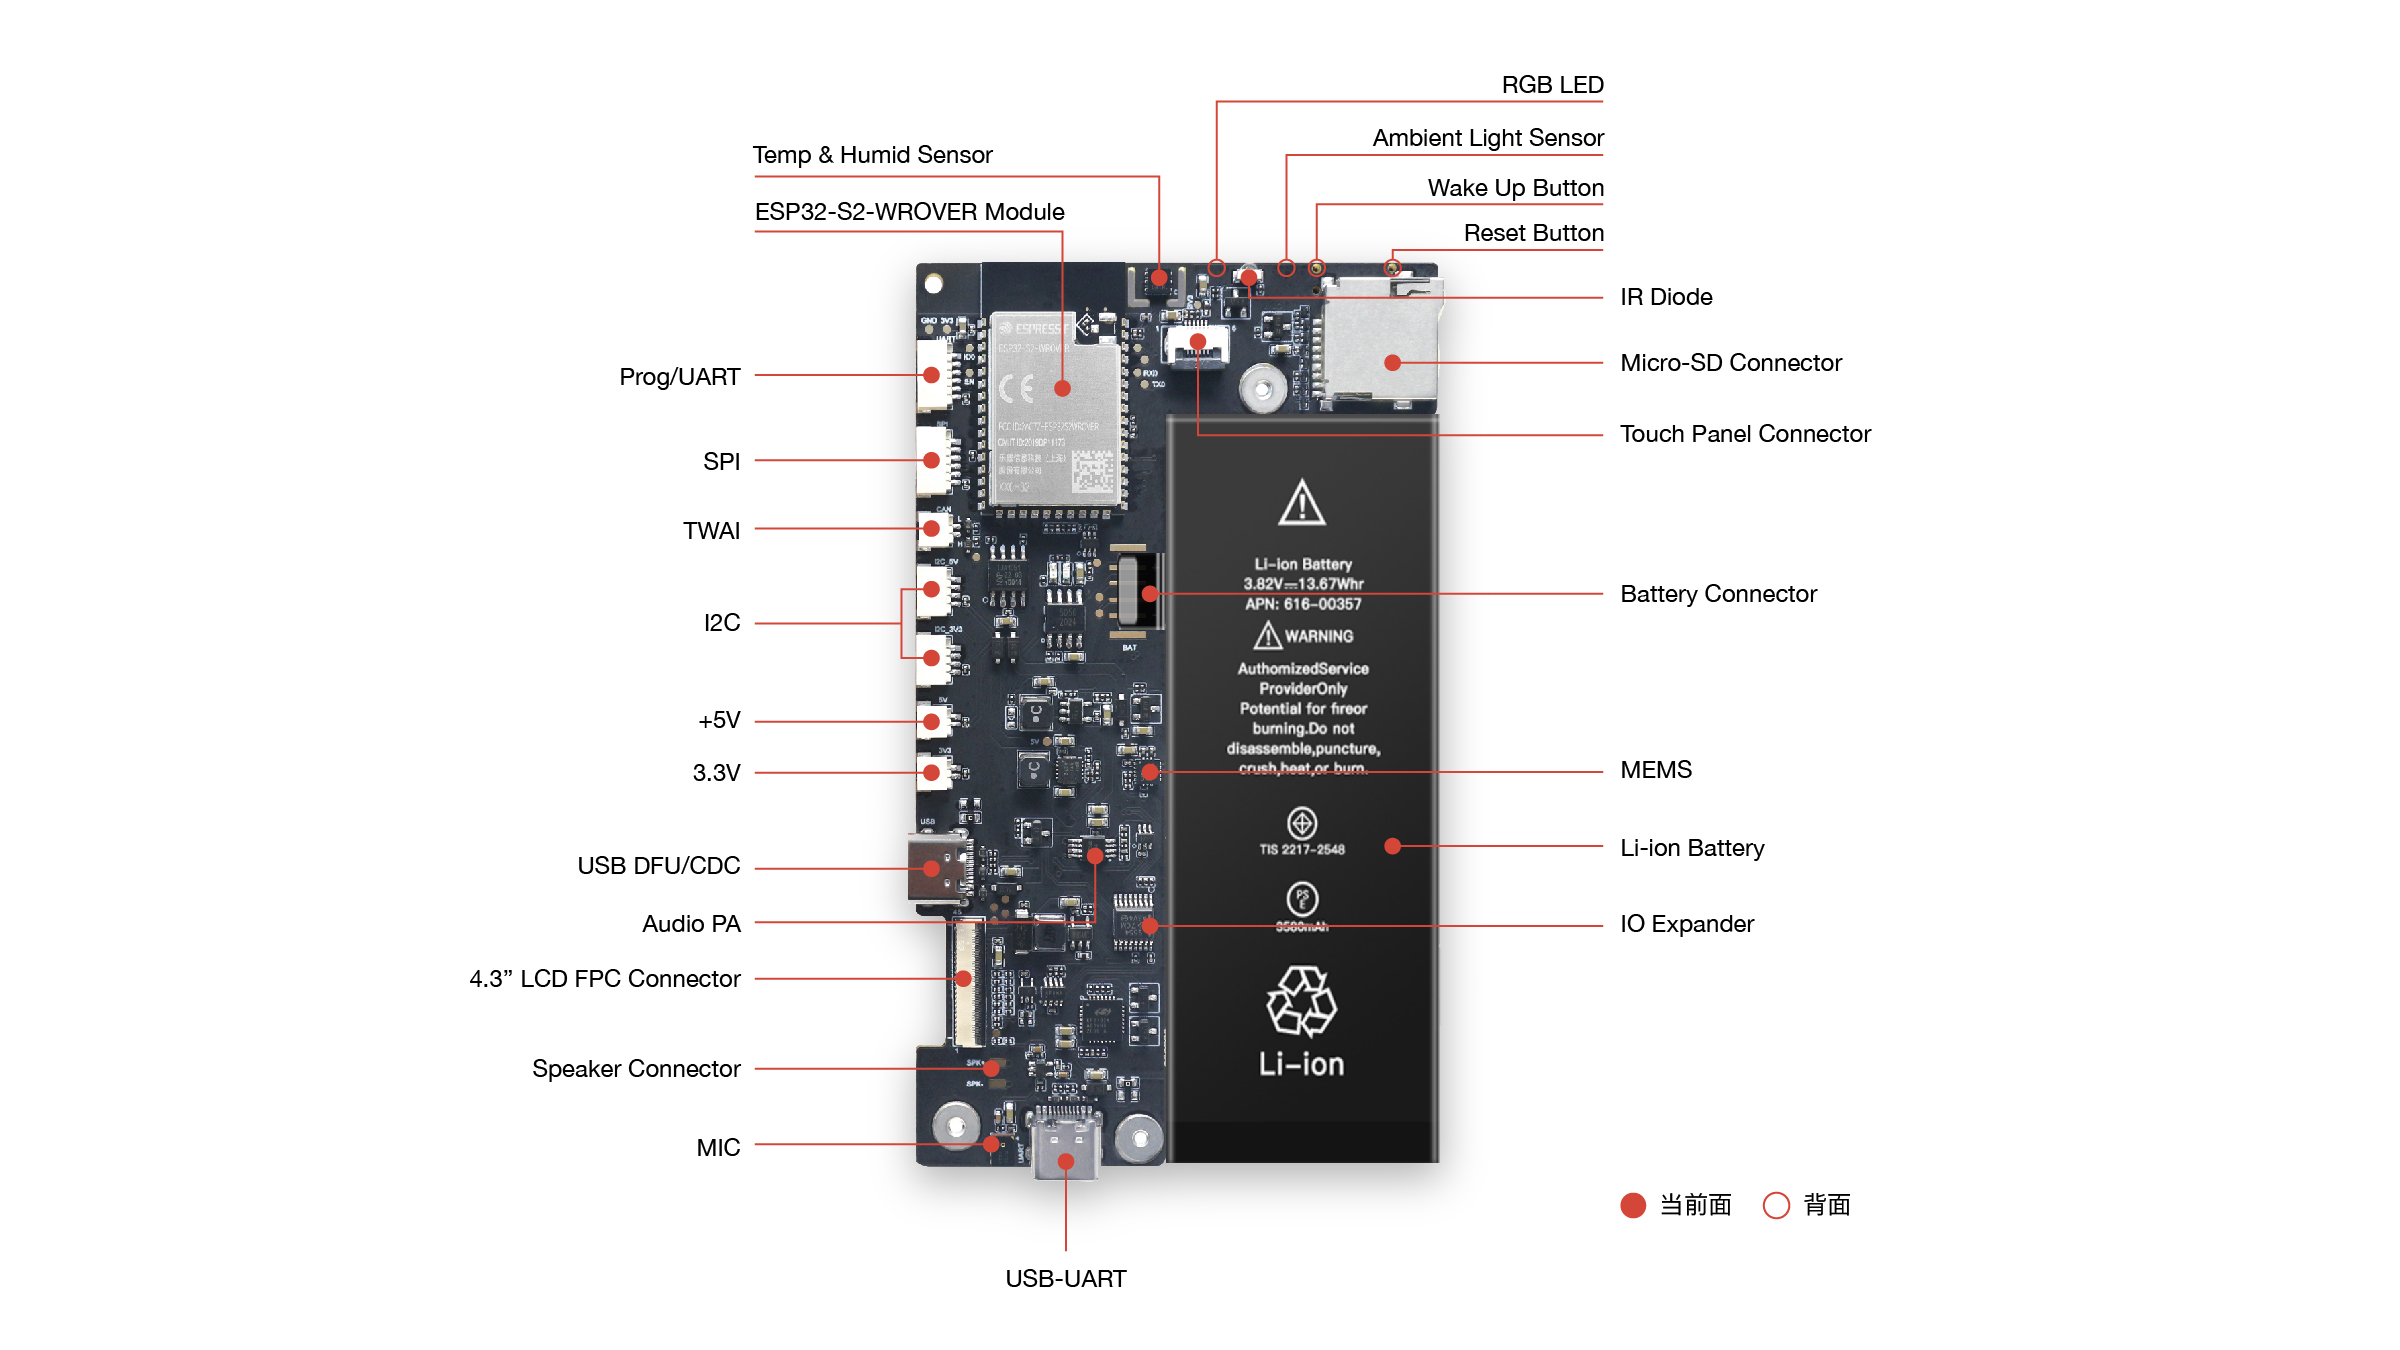
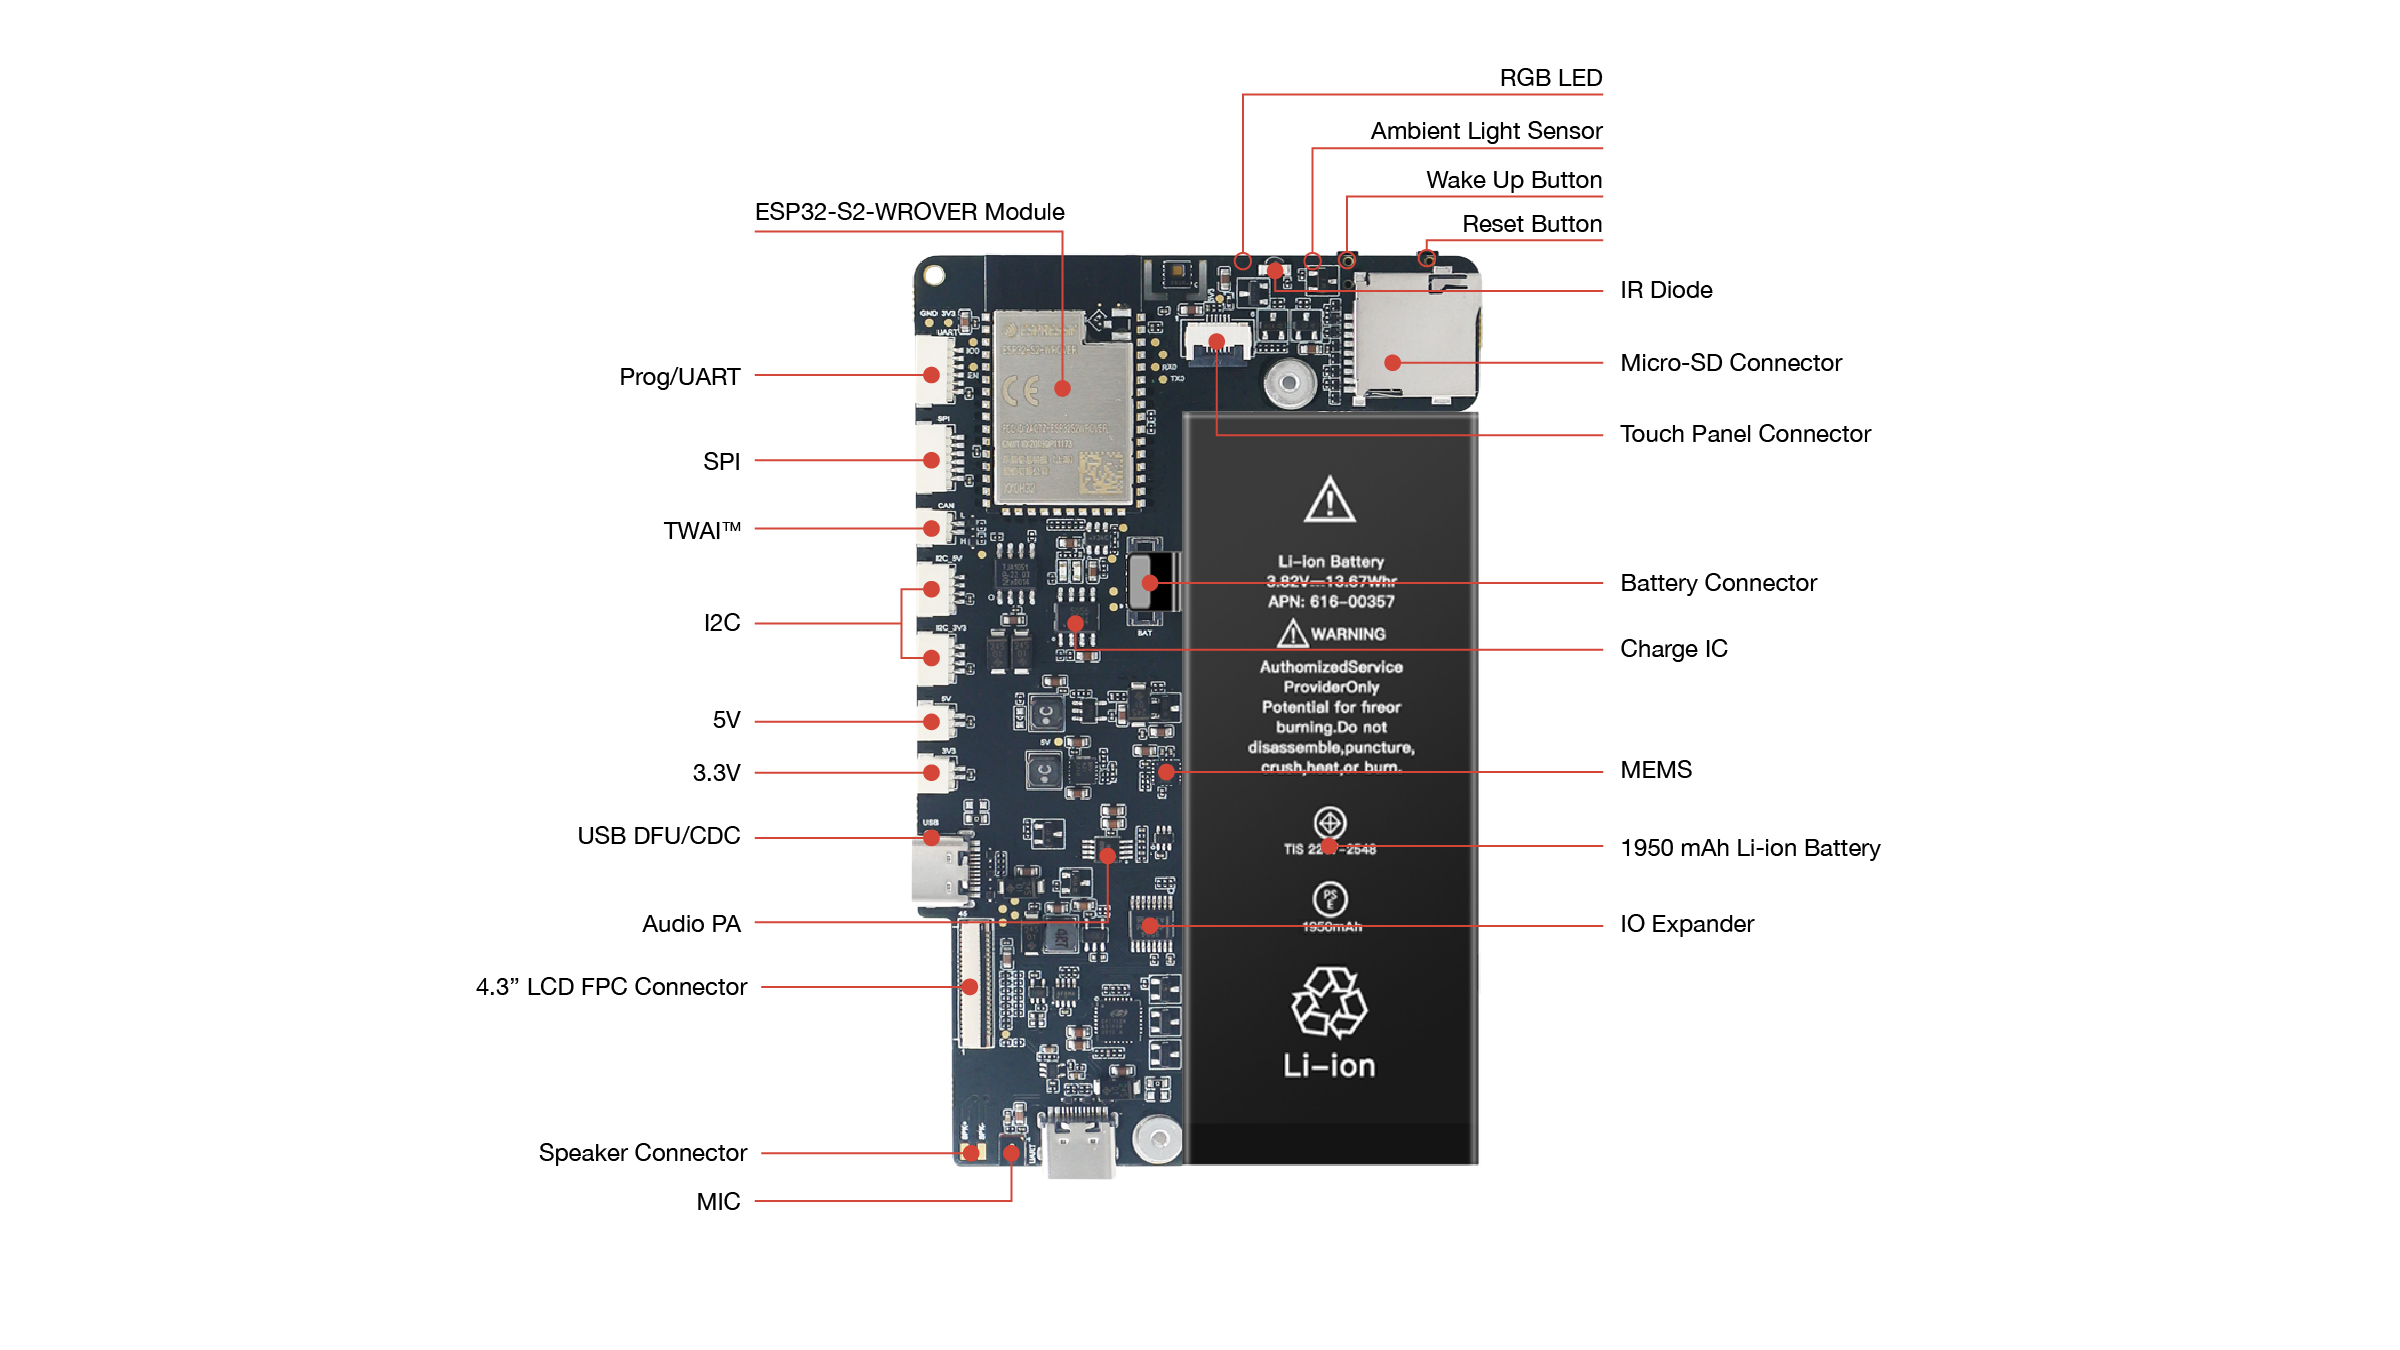
doc(readme):fix issues of README.md and guides

diff --git a/esp32-s2-hmi-devkit-1/README.md b/esp32-s2-hmi-devkit-1/README.md
@@ -4,25 +4,17 @@
 
 ## 概述
 
-该开发板是基于 ESP32-S2 的 HMI 开发板。板载资源如下图所示。
+该开发板是基于 ESP32-S2 的 HMI 开发板，其板载资源如下图所示。
 
 ![ESP32-S2-HMI-DevKit-0 开发板功能框图](docs/_static/board_func.jpg)
 
 该开发板使用 ESP32-S2-WROVER 模组，模组内置 4 MB flash 和 2 MB PSRAM。开发板搭载了一块使用 16 位 8080 并口的 4.3 寸 TFT-LCD，分辨率为 480×800，配有 256 级硬件 DC 背光调节电路。并配备了电容式触摸面板，使用 I2C 接口进行通讯。
 
-开发板上搭载了带有三轴加速计和三轴陀螺仪的惯性传感器、环境光传感器、温湿度传感器、IO 扩展器、可编程 RGB LED 灯、麦克风、音频功放，SD 卡接口等。
+开发板上搭载了带有三轴加速计和三轴陀螺仪的惯性传感器、环境光传感器、温湿度传感器、IO 扩展器、I2C ADC、可编程 RGB LED 灯、麦克风、音频功放，SD 卡接口等。
 
 该开发板提供了多个扩展接口方便用户进行二次开发，包括 5 V 与 3.3 V 电源接口、程序下载/UART 接口、I2C 接口、SPI 接口、USB 接口（支持 USB OTG）、TWAI（兼容 CAN 2.0）接口等。
 
 开发板配备了一块 1950 mAh 的单芯锂离子电池，并配有充电 IC 可对电池进行充电。
-
-> 工程版的开发板存在以下问题，会导致或可能导致部分功能无法正常使用：
->
-> - 整板暂时未做低功耗设计，导致芯片在 Deep Sleep 模式下其余 IC 和 部分电阻仍在消耗电流（经测试在 28 ~ 40 mA 之间）。因此，默认出货时电池未连接至主板，防止电池过放损坏电芯。该问题在正式版中已修复。
-> - 工程版使用的光线传感器会导致 I2C 总线被钳位至 1.2 V 左右，进而导致总线无法正常通讯。默认出货产品已经移除该器件，该问题会在正式版中修复。
-> - 在进入下载模式时，IO46 必须为低电平，但是 IO46 被用作 IO 扩展器的中断输入在无中断时为高电平，可能导致无法进行下载。该器件上电后默认配置为弱上拉的输入，且将每一个通道的下降沿作为中断产生条件以低电平发送至 IO46，并在读取该器件的 IO 输入寄存器前保持低电平状态。这样，可以通过触摸屏幕的方式，由屏幕触摸 IC 的中断来产生 IO 扩展器的中断输出以拉低 IO46，从而成功进入下载模式。该问题在正式版中已修复。
-> - 红外二极管与数字 LED (WS2812) 暂时没有设置切换电路。因此，在操作红外二极管期间，LED 可能会闪烁或长亮；在操作 LED 期间，红外二极管也可能会发射红外线。该问题在正式版中已修复。
-> - 硬件复位后，屏幕内容可能不会立即更新。因为屏幕的显示 IC 自带显存，若显示 IC 没有和 MCU 同时复位，则其会保持之前显存中的内容，直到被新的数据覆盖或硬件复位。该问题在正式版中已修复。
 
 ## 硬件准备
 
@@ -43,20 +35,11 @@
 1. 将 Micro-SD 卡插入卡槽。请确保您的重要资料已经备份，若分区不为 FAT 格式，该 Micro-SD 可能会被格式化。
 2. 如果需要评估音频播放功能，请将开发板下方 USB 口附近的扬声器焊盘连接至附赠的扬声器，或者连接至其它相近规格的扬声器 (8 Ohm, 2 W)。
 
-> 工程版的扬声器目前没有被焊接到主板上，需要您自行焊接。
-
 ### 编译工程
 
 首先，请确保您已经正确完成 IDF 环境配置。为确保这一点，请在终端中输入` idf --version`，如果输出结果类似于 `ESP-IDF v4.2-dev-2084-g98d5b5dfd`，则代表安装成功。详细的安装和配置说明请参考[快速入门文档](https://docs.espressif.com/projects/esp-idf/zh_CN/latest/esp32s2/get-started/index.html)。
 
-配置完成后，请切换到仓库所在的目录。假设该文件所在路径为 `~/esp/esp-dev-kits/esp-hmi-devkits/`，请在终端下输入以下命令，以配置工程目录的环境变量：
-
-```bash
-cd ~/esp/esp-dev-kits/esp-hmi-devkits
-set HMI_PATH=$(pwd)
-```
-
-环境配置完成后，您便可以切换至 examples 目录下的各例程文件夹，开始编译示例程序。
+配置完成后，请切换到仓库所在的目录。所有的示例代码都被放置在 examples 目录下。您可以运行 `idf.py build` 对工程进行编译。
 
 ### 工程选项
 
@@ -72,3 +55,7 @@ set HMI_PATH=$(pwd)
 - `(Top) -> Component config -> FreeRTOS`： `Tick rate (Hz)` 设置为 1000。
 
 在每个示例下，我们都提供了名为 `sdkconfig.defaults` 的默认配置文件，已将上述选项配置完成。
+
+### IDF 版本依赖
+
+`examples/storage/usb_msc` 需要在 IDF V4.3 下进行编译，其它示例程序可以在 IDF V4.2 及以后版本进行编译。

diff --git a/esp32-s2-hmi-devkit-1/docs/ESP32-S2-HMI-DevKit-1_Power.md b/esp32-s2-hmi-devkit-1/docs/ESP32-S2-HMI-DevKit-1_Power.md
@@ -1,5 +1,5 @@
 # 电源
-为实现电源低功耗、高电源效率和电池供电，ESP32-S2-HMI-DevKit-1 的电源设计主要分为 5 V 电源域和 3.3 V 电源域，其中部分电源可以通过软件控制，另一部分在硬件设计时被配置为始终开启。
+为了降低电源功耗、提高电源效率并支持电池供电，ESP32-S2-HMI-DevKit-1 的电源花分成了 5 V 电源域和 3.3 V 电源域，其中部分电源可以通过软件控制，另一部分在硬件设计时被配置为始终开启。
 
 开发板出厂时烧录的固件已经关闭所有可控电源域的电源，并将所有 IC 配置为低功耗模式，以降低电流消耗。
 
@@ -7,7 +7,7 @@
 
 该电源域负责为绝大部分的 IC 和模组供电，但其分为两部分：不可控 3.3 V 电源域和可控 3.3 V 电源域。
 
-不可控 3.3 V 电源域无法通过软件关闭，该电源由 Buck 电路得到。在 USB 有电源输入的情况下，将从 USB 线缆输入 5 V 电源；在 USB 断开的情况下，则由锂电池提供 3.6 ~ 4.2 V 电源给 Buck IC 。该电源域负责为 ESP32-S2-WROVER 模组供电，同时也为其他可通过软件控制进入低功耗模式的器件供电。
+不可控 3.3 V 电源域无法通过软件关闭，该电源由 Buck 电路得到。在 USB 有电源输入的情况下，将从 USB 线缆输入的 5 V 电源取电；在 USB 断开的情况下，则由锂电池提供 3.6 ~ 4.2 V 的电源 。该电源域负责为 ESP32-S2-WROVER 模组以及其他可通过软件控制进入低功耗模式的器件供电。
 
 可控 3.3 V 电源域来自于不可控 3.3 V 电源域，通过 PMOS 控制开关，该 PMOS 栅极连接至 IO 扩展器的 P4 脚，低电平开启该电源。该电源负责为一些具有较大静态功耗且无法进入低功耗模式的 IC 进行供电。
 
@@ -30,19 +30,17 @@
 
 - TWAI®
 - 音频功放
+- 5V 电源输出连接器
 
 以下功能依赖可控 3.3 V 电源域：
 
 - Micro-SD 卡
-- 麦克风
+- 麦克风及其偏置电路、运算放大器
 - 显示屏与触摸功能
-- WS2812 RGB LED
+- WS2812 RGB LED 与红外二极管
 - 红外二极管
 
-## 电源工作模式
-电源工作模式取决于 USB 接口是否供电以及 IO 扩展器的 P4、P5 引脚。
+## 电源工作状态
+当通过 USB 线缆连接开发板时，5V 电源域自动开启，充电 IC 输出电压为电池充电，可控 3.3 V 电源域由 IO 扩展器的 P4 脚进行控制。
 
-P4 为可控 3.3 V 电源控制引脚，通过高电平开启。
-
-P5 为 5 V 电源控制引脚，通过高电平开启，当且仅当使用电池供电时可以关闭。
-
+当使用电池为开发板进行供电时，可控 3.3 V 电源域由 IO 扩展器的 P4 脚进行控制，5V 电源域由 IO 扩展器的 P5 脚控制，充电 IC 不会工作。
